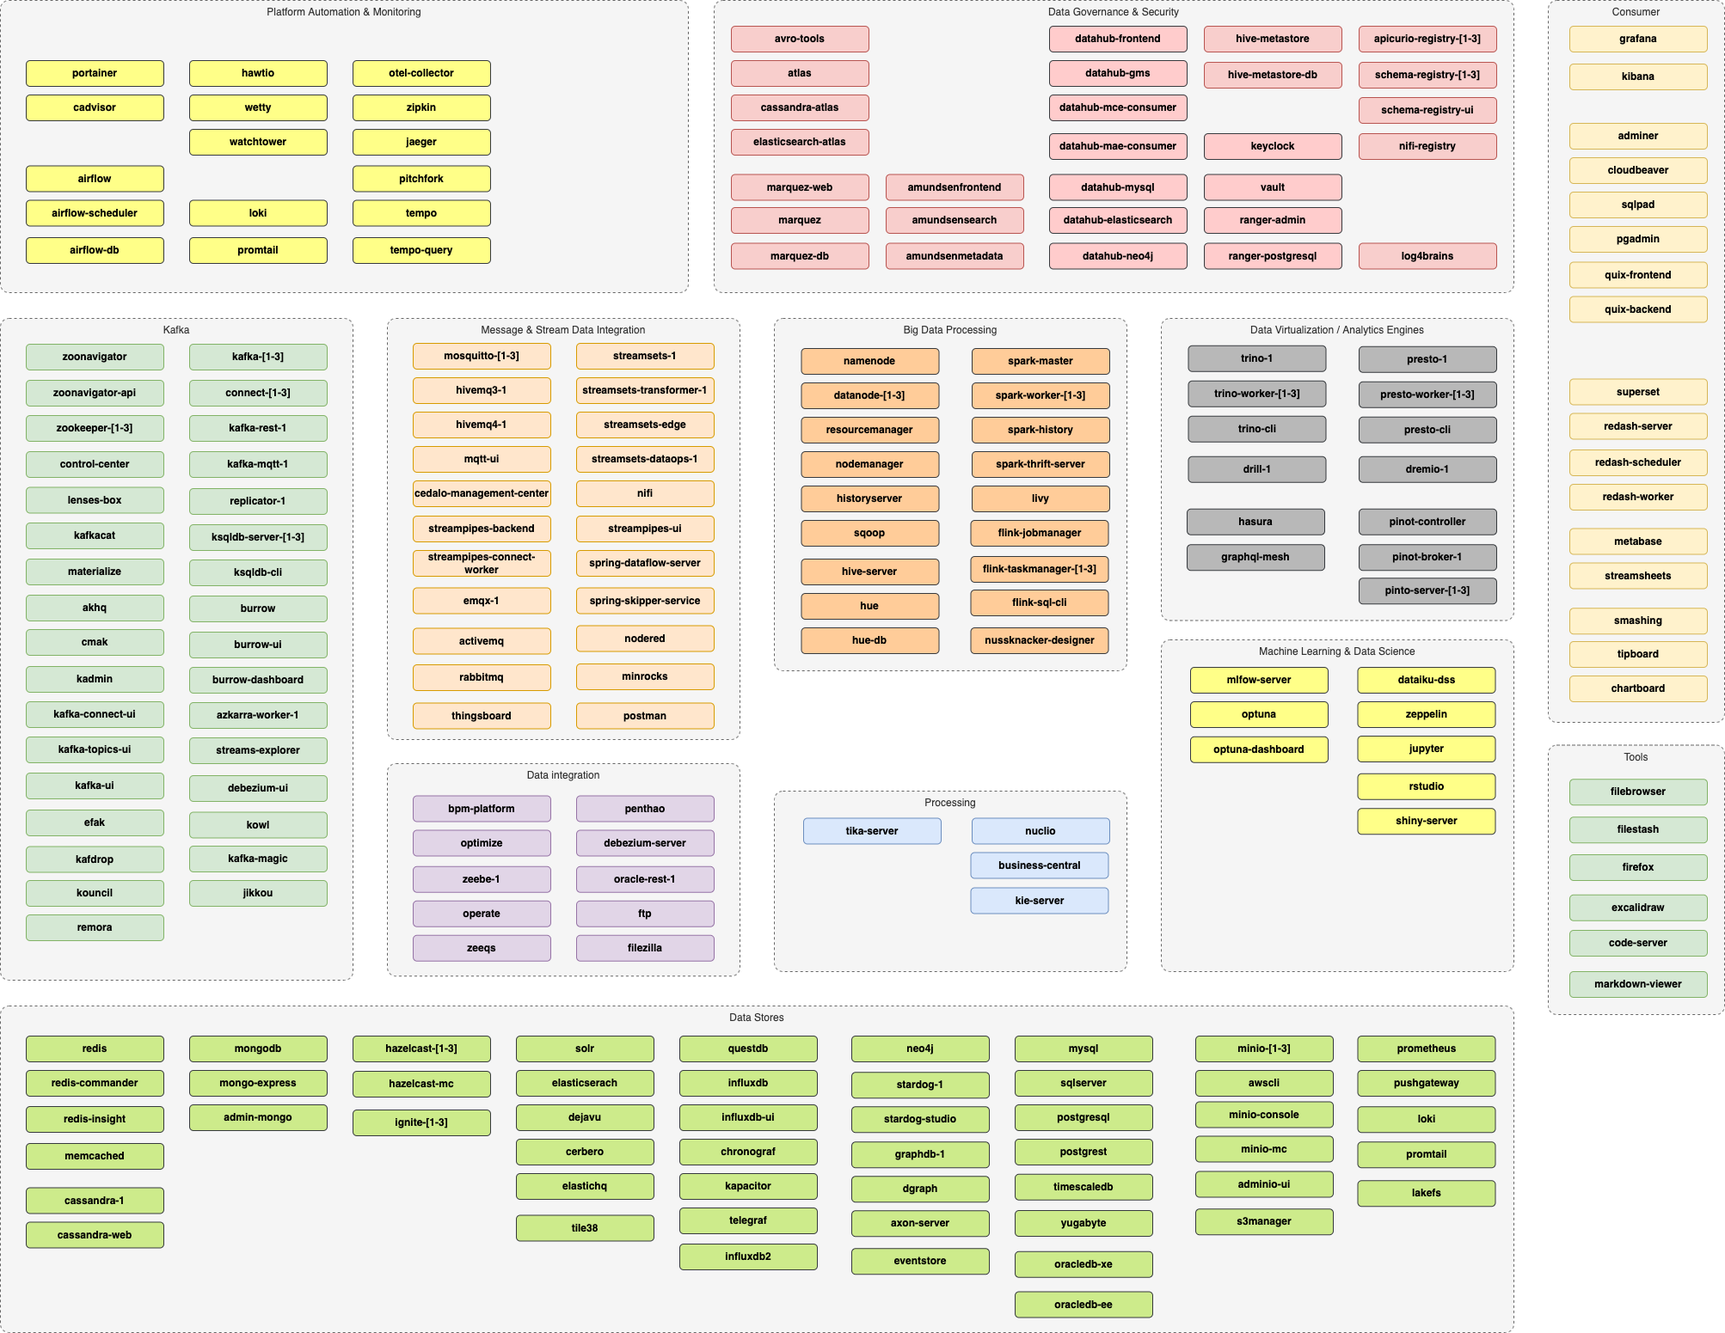
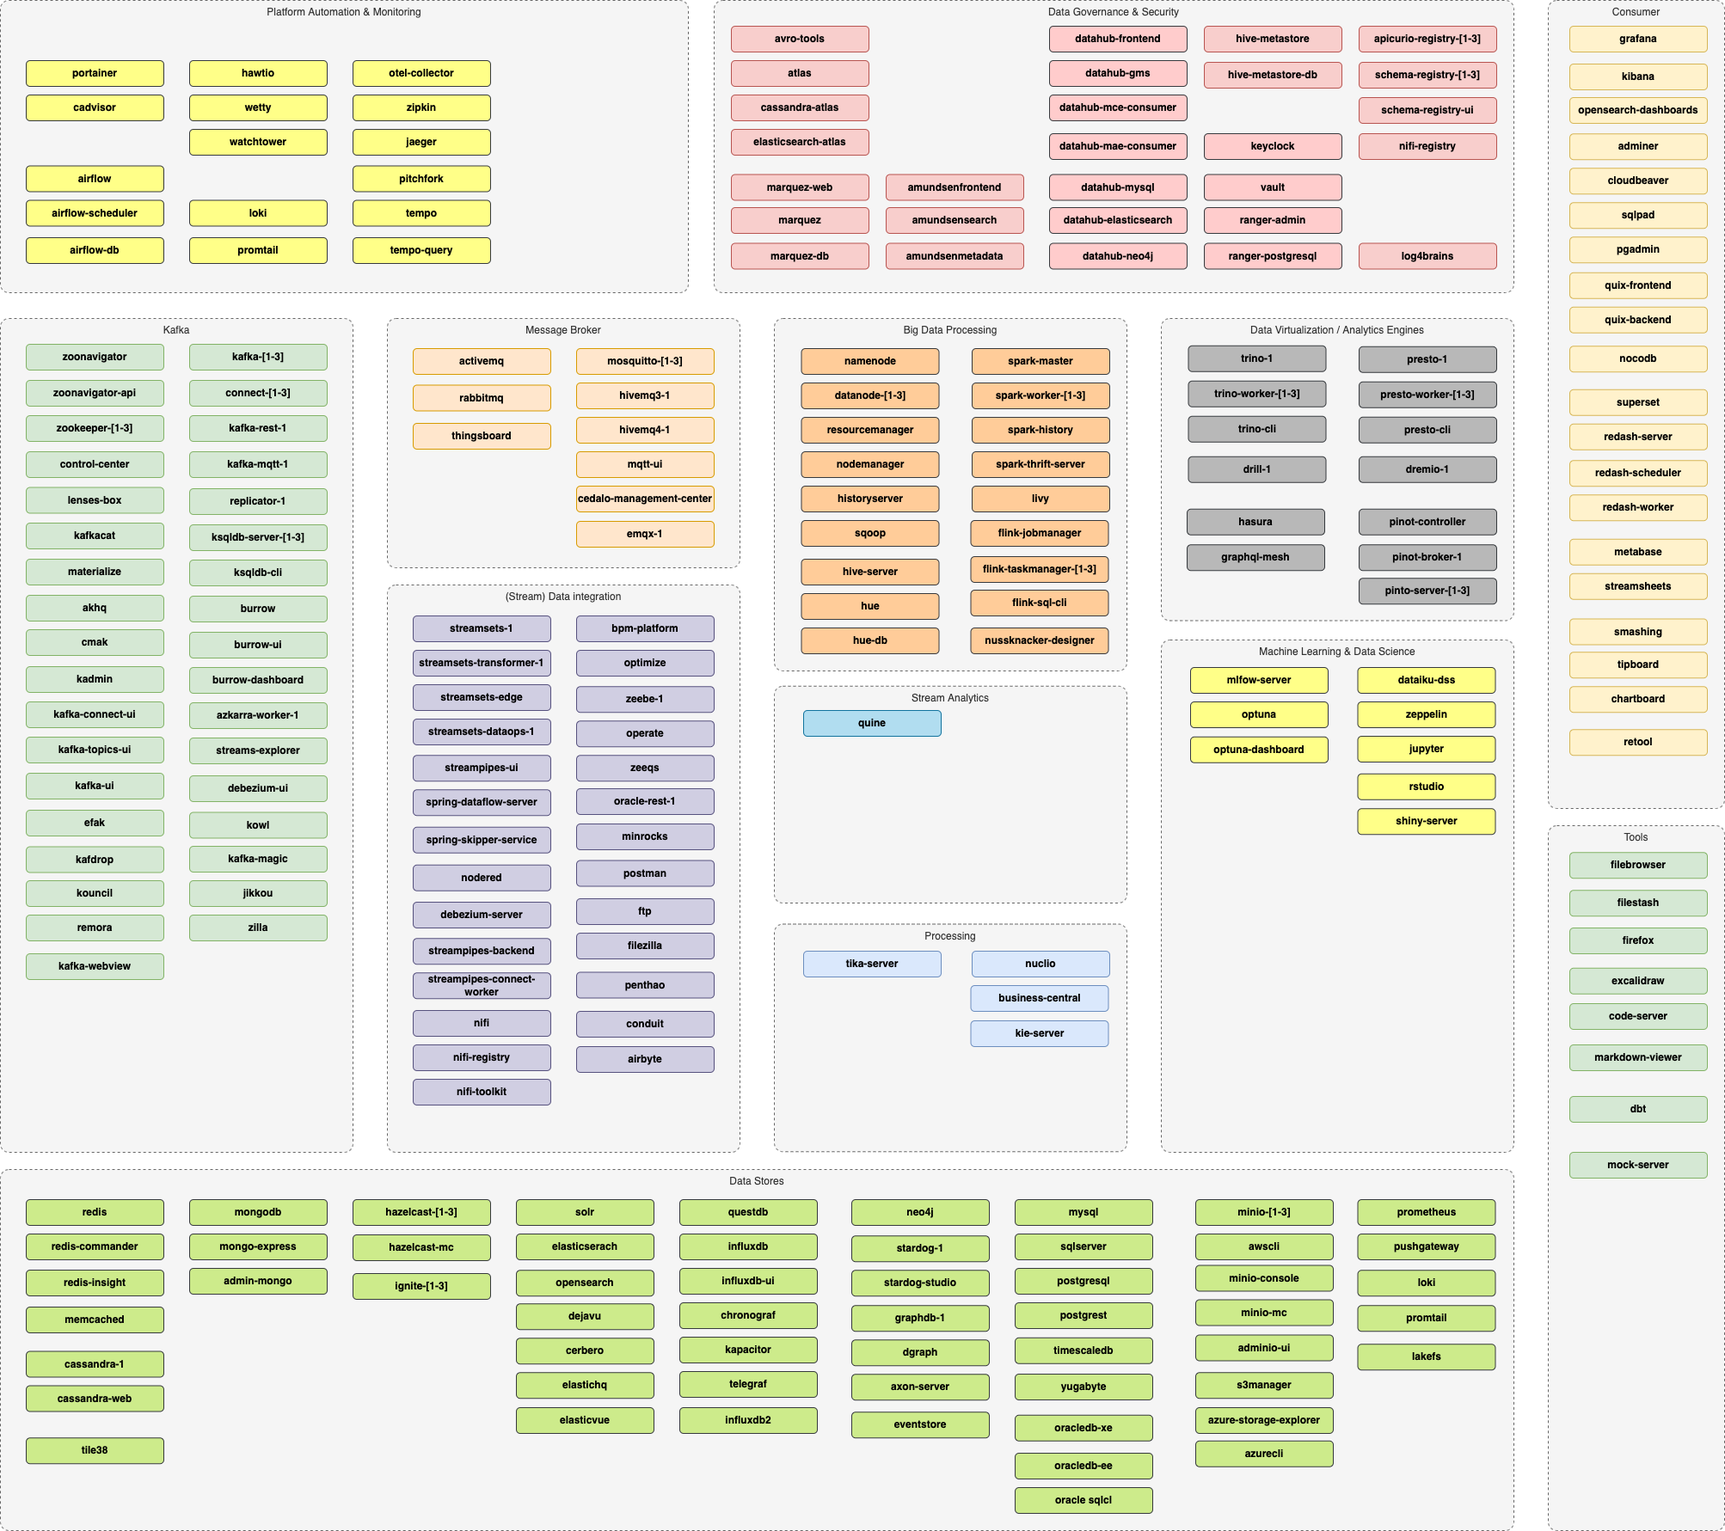
added avro library to spark cluster, removed opensearch-dashboard

diff --git a/historic_data/docker/artefacts/documentation/configuration.md b/historic_data/docker/artefacts/documentation/configuration.md
@@ -142,6 +142,8 @@ For each service there might be some other settings, such as controlling the num
 | [**_Confluent MQTT Proxy_**](./services/kafka-mqtt)   &nbsp;&nbsp;&nbsp;&nbsp;![x86-64](./images/x86-64.png)            	|         	|       	|                                                                                                                                                                                     	|             	|                                	|
 | `KAFKA_MQTTPROXY_enable`                       	| `false` 	| 1.2.0 	| Generate Confluent MQTT Proxy service                                                                                                                                               	|             	|                                	|
 | `KAFKA_MQTTPROXY_topic_regex_list`                       	| `` 	| 1.8.0 	| A comma-separated list of pairs of type <kafka topic>:<regex> that is used to map MQTT topics to Kafka topics.                                                                                                                                               	|             	|                                	|
+| [**_Zilla_**](./services/zilla)   &nbsp;&nbsp;&nbsp;&nbsp;![x86-64](./images/x86-64.png)            	|         	|       	|                                                                                                                                                                                     	|             	|                                	|
+| `ZILLA_enable`                       	| `false` 	| 1.15.0 	| Generate Zilla service                                                                                                                                               	|             	|                                	|
 | [**_Lenses Box_**](./services/lenses-box)   &nbsp;&nbsp;&nbsp;&nbsp;![x86-64](./images/x86-64.png)                                	|         	|       	|                                                                                                                                                                                     	|             	|                                	|
 | `LENSES_BOX_enable`              	| `false` 	| 1.14.0 	| Generate Lenses Box (Development) service.                                                                                                                                     	|             	|                                	|
 | `LENSES_BOX_license`              	| `false` 	| 1.14.0 	| Set the end-user-license string you have gotten from <http://lenses.io> by email.                                                                                                                                     	|             	|                                	|
@@ -523,6 +525,7 @@ For each service there might be some other settings, such as controlling the num
 | `CASSANDRA_enable`                             	| `false` 	| 1.0.0 	| Generate Elasticsearch service                                                                                                                                                      	|             	|                                	|
 | `CASSANDRA_major_version`                             	| `3` 	| 1.13.0 	| Which major version of Cassandra to use, one of `3` or `4`. The exact version can then be specified using either the `CASSANDRA3_version` or `CASSANDRA4_version` setting.                                                                                                                                                         	|             	|                                	|
 | `CASSANDRA_volume_map_data`                                 	| `false` 	| 1.15.0 	| Volume map data folder into the Cassandra service                                                                                                                                                                	|             	|                                	|
+| `CASSANDRA_nodes`                             	| `1` 	| 1.15.0 	| number of Cassandra nodes to form a Cassandra cluster. Support for up to 5 nodes.                                                                                                                                                     	|             	|                                	|
 | [**_MongoDB_**](./services/mongodb)  &nbsp;&nbsp;&nbsp;&nbsp;![x86-64](./images/x86-64.png)                              	|         	|       	|                                                                                                                                                                                     	|             	|                                	|
 | `MONGO_enable`                               	| `false` 	| 1.2.0 	| Generate MongoDB service                                                                                                                                                            	|             	|                                	|
 | `MONGO_nodes`                             	|   `1	`   | 1.3.0 	| number of MongoDB nodes in replicaset                                                                                                                                                      	|
@@ -769,6 +772,8 @@ For each service there might be some other settings, such as controlling the num
 | `RABBITMQ_volume_map_logs `                   	| `false` 	| 1.6.0 	| Volume map logs folder into the RabbitMQ broker                                                                                                                                    	|             	|                                	|
 | [**_Pure FTP_**](./services/pure-ftp)  &nbsp;&nbsp;&nbsp;&nbsp;![x86-64](./images/x86-64.png)                                    	|         	|       	|                                                                                                                                                                                     	|      
 | `FTP_enable`                                   	| `false` 	| 1.0.0 	| Generate FTP service                                                                                                                                                                	|             	|                                	|
+| `FTP_username`                                   	| `ftp` 	| 1.15.0 	| The username of the user on the FTP Server |             	|                                	|
+| `FTP_username`                                   	| `abc123!` 	| 1.15.0 	| The password of the user on the FTP Server |             	|                                	|
 
 ### Process Orchestration
 
@@ -852,4 +857,3 @@ For each service there might be some other settings, such as controlling the num
 | [**Watchtower**](./services/watchtower) &nbsp;&nbsp;&nbsp;&nbsp;![x86-64](./images/x86-64.png)  ![arm](./images/arm.png)                    	|         	|       	            	
 | `WATCHTOWER_enable` | `false` 	| 1.11.0 	| Generates the watchtower service, a container-based solution for automating Docker container base image updates. |
 | `WATCHTOWER_map_config_json` | `false` 	| 1.15.0 	| Map the `config.json` file from `$HOME/.docker/` folder into the `watchtower` container? |
-

diff --git a/historic_data/docker/artefacts/cookbooks/recipes/querying-adls-with-trino/README.md b/historic_data/docker/artefacts/cookbooks/recipes/querying-adls-with-trino/README.md
@@ -1,0 +1,133 @@
+---
+technoglogies:      trino,minio,adls,azure
+version:				1.15.0
+validated-at:			14.7.2022
+---
+
+# Querying data in Azure Data Lake Storage Gen2 from Trino (formerly PrestoSQL)
+
+This tutorial will show how to query Azure Data Lake Storage Gen2 (ADLS) with Hive and Trino. 
+
+## Initialise a platform
+
+First [initialise a platys-supported data platform](../../getting-started) with the following services enabled 
+
+```
+platys init --enable-services TRINO,HIVE_METASTORE,AZURECLI,PROVISIONING_DATA -s trivadis/platys-modern-data-platform -w 1.15.0
+```
+
+add the following property to `config.yml`
+
+```
+TRINO_edition: 'oss'
+```
+
+Now generate and start the data platform. 
+
+```bash
+platys gen
+
+docker-compose up -d
+```
+
+## Create Data in Azure Data Lake Storage
+
+
+
+
+first login using
+
+```bash
+docker exec -ti azurecli az login
+```
+
+Navigate to the website as requested and enter the code provided by the login command and authenticate yourself to Azure. 
+
+Now create the container
+
+```
+docker exec -ti azurecli az storage fs create -n flight-data --account-name gusstorage --auth-mode login
+```
+
+create some folders
+
+```bash
+docker exec -ti azurecli az storage fs directory create -n /landing/airports/ -f flight-data --account-name gusstorage 
+
+docker exec -ti azurecli az storage fs directory create -n /landing/plane/ -f flight-data --account-name gusstorage 
+```
+
+and upload some data
+
+```bash
+docker exec -ti azurecli az storage fs file upload -s "data-transfer/flight-data/airports.json" -p /landing/airports/airports.json -f flight-data --account-name gusstorage
+
+docker exec -ti azurecli az storage fs file upload -s "data-transfer/flight-data/plane-data.json" -p /landing/plane/plane-data.json -f flight-data --account-name gusstorage
+```
+
+## Create a table in Hive
+
+On the docker host, start the Hive CLI 
+
+```
+docker exec -ti hive-metastore hive
+```
+
+and create a new database `flight_db` and in that database a table `plane_t`:
+
+```
+create database flight_db;
+use flight_db;
+
+CREATE EXTERNAL TABLE plane_t (tailnum string
+									, type string
+									, manufacturer string									, issue_date string
+									, model string
+									, status string
+									, aircraft_type string
+									, engine_type string
+									, year string									 )
+ROW FORMAT SERDE 'org.apache.hive.hcatalog.data.JsonSerDe'
+LOCATION 'abfs://flight-data@gusstorage.dfs.core.windows.net/landing/plane';
+```
+
+
+## Query Table from Trino
+
+Next let's query the data from Trino. Connect to the Trino CLI using
+
+```
+docker exec -it trino-cli trino --server trino-1:8080
+```
+
+Now on the Trino command prompt, switch to the right database. 
+
+```
+use adls.flight_db;
+```
+
+Let's see that there is one table available:
+
+```
+show tables;
+```
+
+We can see the `plane_t` table we created in the Hive Metastore before
+
+```
+presto:default> show tables;
+     Table
+---------------
+ plane_t
+(1 row)
+```
+
+```
+SELECT * FROM plane_t;
+```
+
+```
+SELECT year, count(*)
+FROM plane_t
+GROUP BY year;
+```

diff --git a/historic_data/docker/artefacts/cookbooks/README.md b/historic_data/docker/artefacts/cookbooks/README.md
@@ -8,7 +8,8 @@ Inhere we are documenting cookbooks on how to use the platform:
    * [Trino, Spark and Delta Lake (Spark 2.4.7 & Delta Lake 0.6.1)](./recipes/delta-lake-and-trino-spark2.4/README) - `1.11.0`
    * [Trino, Spark and Delta Lake (Spark 3.0.1 & Delta Lake 0.7.0)](./recipes/delta-lake-and-trino-spark3.0/README) - `1.11.0`
    * [Querying S3 data (MinIO) using MinIO](./recipes/querying-minio-with-trino/README) - `1.11.0`
-   * [Querying PostgreSQL data (MinIO) using MinIO](./recipes/querying-postgresql-with-trino/README) - `1.11.0`
+   * [Querying Azure Data Lake Storage Gen2 data (ADLS) from Trino](./recipes/querying-adls-with-trino/README) - `1.15.0`
+   * [Querying data in Postgresql from Trino](./recipes/querying-postgresql-with-trino/README) - `1.11.0`
    * [Querying data in Kafka from Trino (formerly PrestoSQL)](./recipes/querying-kafka-with-trino/README) - `1.14.0`
    * [Querying HDFS data using Trino](./recipes/querying-hdfs-with-presto/README) - `1.11.0`
    * Joining data between RDBMS and MinIO
@@ -27,7 +28,7 @@ Inhere we are documenting cookbooks on how to use the platform:
    * [Spark and Hive Metastore](./recipes/spark-and-hive-metastore/README) - `1.15.0`
    * [Spark with internal S3 (using on minIO)](./recipes/spark-with-internal-s3/README)
    * [Spark with external S3](./recipes/spark-with-external-s3/README)
-   * [Spark with PostgreSQL](./recipes/spark-with-postgresql/README) - `1.11.0`
+   * [Spark with PostgreSQL](./recipes/spark-with-postgresql/README) - `1.15.0`
 
  * **Hadoop HDFS**
    * [Querying HDFS data using Presto](./recipes/querying-hdfs-with-presto/README)
@@ -71,7 +72,7 @@ Inhere we are documenting cookbooks on how to use the platform:
    * [Using public Oracle XE image](./recipes/using-public-oracle-xe-image/README) - `1.13.0`    
 
  * **Neo4J**
-     * [Working with Neo4J](./recipes/working-with-neo4j/README) - `1.13.0`    
+     * [Working with Neo4J](./recipes/working-with-neo4j/README) - `1.15.0`    
 
  * **Tipboard**
    * [ Working with Tipboard and Kafka](./recipes/tipboard-and-kafka/README) - `1.14.0`    

diff --git a/historic_data/docker/artefacts/documentation/changes.md b/historic_data/docker/artefacts/documentation/changes.md
@@ -22,10 +22,12 @@ The Modern Data Platform version 1.15.0 contains the following bug fixes and enh
  * NocoDB
  * Azure CLI
  * Azure Storage Explorer
+ * Zilla
+ * NocoDB
 
 ### New Cookbook Recipes
 
- *
+ * [Querying data in Azure Data Lake Storage Gen2 from Trino](../cookbooks/recipes/querying-adls-with-trino)
 
 ### Version upgrades
 
@@ -42,7 +44,7 @@ The Modern Data Platform version 1.15.0 contains the following bug fixes and enh
  * Update `thingsboard` to `3.3.4.1`
  * Update `datahub` to `v0.8.31`
  * Update `nifi` to `1.17.0` and `nifi-registry` to `1.17.0`
- * Update `minio` to `RELEASE.2022-05-19T18-20-59Z`
+ * Update `minio` to `RELEASE.2022-08-08T18-34-09Z`
  * Update `spark` to `3.1.3`
  * Update `zeppelin` to `0.10.1`
  * Update `Confluent Platform` to `7.1.2`
@@ -65,6 +67,7 @@ The Modern Data Platform version 1.15.0 contains the following bug fixes and enh
  * Option for installing Adventureworks demo database with SQL Server
  * Externalize version of the container used when `PROVISIONING_DATA_enable` is activated
  * Support external property file for configuration values in `streamsets`
+ * Support for Cassandra cluster and set default major version to `4`
 
 ### Bug Fixes
 

diff --git a/historic_data/docker/artefacts/documentation/port-mapping.md b/historic_data/docker/artefacts/documentation/port-mapping.md
@@ -101,6 +101,8 @@ Container Port(s) | Internal Port(s)           | Service (alternatives) |
 7199 | 7199 | cassandra-1 |
 7200 | 7199 | cassandra-2 |
 7201 | 7199 | cassandra-3 |
+7202 | 7199 | cassandra-4 |
+7203 | 7199 | cassandra-5 |
 7474 | 7474 | neo4j-1 |
 7475 | 7474 | neo4j-2 |
 7476 | 7474 | neo4j-3 |
@@ -155,6 +157,8 @@ Container Port(s) | Internal Port(s)           | Service (alternatives) |
 9160 | 9160 | cassandra-1 |
 9161 | 9160 | cassandra-2 |
 9162 | 9160 | cassandra-3 |
+9163 | 9160 | cassandra-4 |
+9164 | 9160 | cassandra-5 |
 9083 | 9083 | hive-metastore |
 9021 | 9021 | control-center (dc1) |
 9022 | 9021 | control-center (dc2) |
@@ -258,8 +262,10 @@ Container Port(s) | Internal Port(s)           | Service (alternatives) |
 28085 | 8080 | azkarra-worker-1 |
 28888 | 8888 | jupyter |
 29042 | 9042 | cassandra-1 |
-29043 | 9042 | cassandra-1 |
-29044 | 9042 | cassandra-1 |
+29043 | 9042 | cassandra-2 |
+29044 | 9042 | cassandra-3 |
+29045 | 9042 | cassandra-4 |
+29046 | 9042 | cassandra-5 |
 29092 | 29092 | kafka-1 (docker-host)   |
 29093 | 29093 | kafka-2 (docker-host    |
 29094 | 29094 | kafka-3 (docker-host)   |

diff --git a/historic_data/docker/artefacts/documentation/services/neo4j.md b/historic_data/docker/artefacts/documentation/services/neo4j.md
@@ -1,6 +1,6 @@
 # Neo4J
 
-Neo4j gives developers and data scientists the most trusted and advanced tools to quickly build today’s intelligent applications and machine learning workflows. Available as a fully managed cloud service or self-hosted. 
+Neo4j gives developers and data scientists the most trusted and advanced tools to quickly build today’s intelligent applications and machine learning workflows. Available as a fully managed cloud service or self-hosted.
 
 **[Website](https://neo4j.com/)** | **[Documentation](https://neo4j.com/docs/)** | **[GitHub](https://github.com/neo4j/neo4j)**
 
@@ -13,4 +13,10 @@ platys gen
 
 ## How to use it?
 
-Navigate to <http://dataplatform:7474>
+Navigate to <http://dataplatform:7474> to use the Neo4J Browser.
+
+To use the `cypher-shell`, in a terminal window execute
+
+```bash
+docker exec -ti neo4j-1 ./bin/cypher-shell -u neo4j -p abc123!
+```

diff --git a/historic_data/docker/artefacts/cookbooks/recipes/working-with-neo4j/README.md b/historic_data/docker/artefacts/cookbooks/recipes/working-with-neo4j/README.md
@@ -1,3 +1,9 @@
+---
+technoglogies:    neo4j
+version:				  1.15.0
+validated-at:			15.02.2022
+---
+
 # Working with Neo4J
 
 This recipe will show how to use Neo4J.
@@ -7,7 +13,7 @@ This recipe will show how to use Neo4J.
 First [initialise a platys-supported data platform](../documentation/getting-started) with the following services enabled
 
 ```
-platys init --enable-services NEO4J -s trivadis/platys-modern-data-platform -w 1.8.0
+platys init --enable-services NEO4J -s trivadis/platys-modern-data-platform -w 1.15.0
 ```
 
 Now generate and start the data platform.
@@ -19,7 +25,6 @@ docker-compose up -d
 ```
 
 ## Working with Neo4J
-
 
 Connect to the `cypher-shell` in the `neo4j-1` container:
 
@@ -50,7 +55,7 @@ CREATE (p:Person)
 Only return nodes with the label `Person`
 
 ```
-MATCH (p:Person) RETRUN p
+MATCH (p:Person) RETURN p
 ```
 
 ```

diff --git a/historic_data/docker/artefacts/documentation/services/cassandra-web.md b/historic_data/docker/artefacts/documentation/services/cassandra-web.md
@@ -1,0 +1,16 @@
+# Cassandra Web
+
+A web interface for Apache Cassandra-
+
+**[Website](http://avalanche123.com/cassandra-web/)** | **[Documentation](http://avalanche123.com/cassandra-web)** | **[GitHub](https://github.com/avalanche123/cassandra-web)**
+
+## How to enable?
+
+```
+platys init --enable-services CASSANDRA
+platys gen
+```
+
+## How to use it?
+
+Navigate to <http://dataplatform:28120>.

diff --git a/historic_data/docker/artefacts/cookbooks/recipes/querying-minio-with-trino/README.md b/historic_data/docker/artefacts/cookbooks/recipes/querying-minio-with-trino/README.md
@@ -16,7 +16,7 @@ First [initialise a platys-supported data platform](../../getting-started) with 
 platys init --enable-services TRINO,HIVE_METASTORE,MINIO,AWSCLI,PROVISIONING_DATA -s trivadis/platys-modern-data-platform -w 1.11.0
 ```
 
-add the follwing property to `config.yml`
+add the following property to `config.yml`
 
 ```
 TRINO_edition: 'oss'

diff --git a/historic_data/docker/artefacts/documentation/services/activemq.md b/historic_data/docker/artefacts/documentation/services/activemq.md
@@ -13,4 +13,6 @@ platys gen
 
 ## How to use it?
 
-Navigate to <http://dataplatform:8161>
+Navigate to <http://dataplatform:8161> for the ActiveMQ dashboard.
+
+To manage the ActiveMQ server, navigate to <http://dataplatform:8161/admin/> and use `admin` for the user and `admin` for the password when asked for.

diff --git a/historic_data/docker/artefacts/documentation/services/mockserver.md b/historic_data/docker/artefacts/documentation/services/mockserver.md
@@ -13,7 +13,7 @@ platys gen
 
 ## How to use it?
 
-Navigate to <http://dataplatform:28273>.
+Navigate to <http://dataplatform:28273/mockserver/dashboard>.
 
 
 ### Setting expectations using Json Config File
